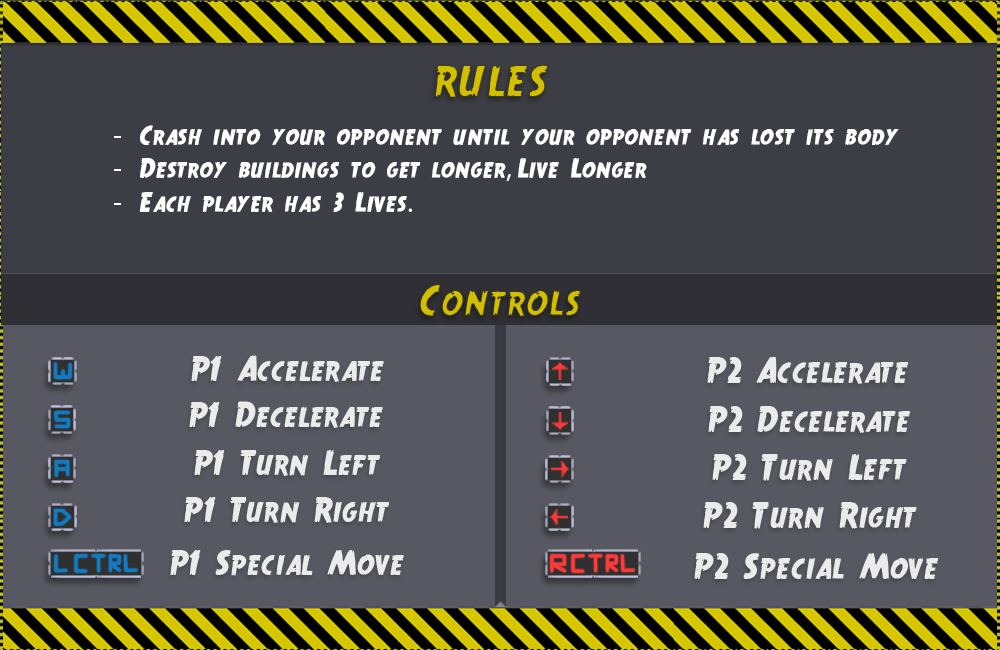
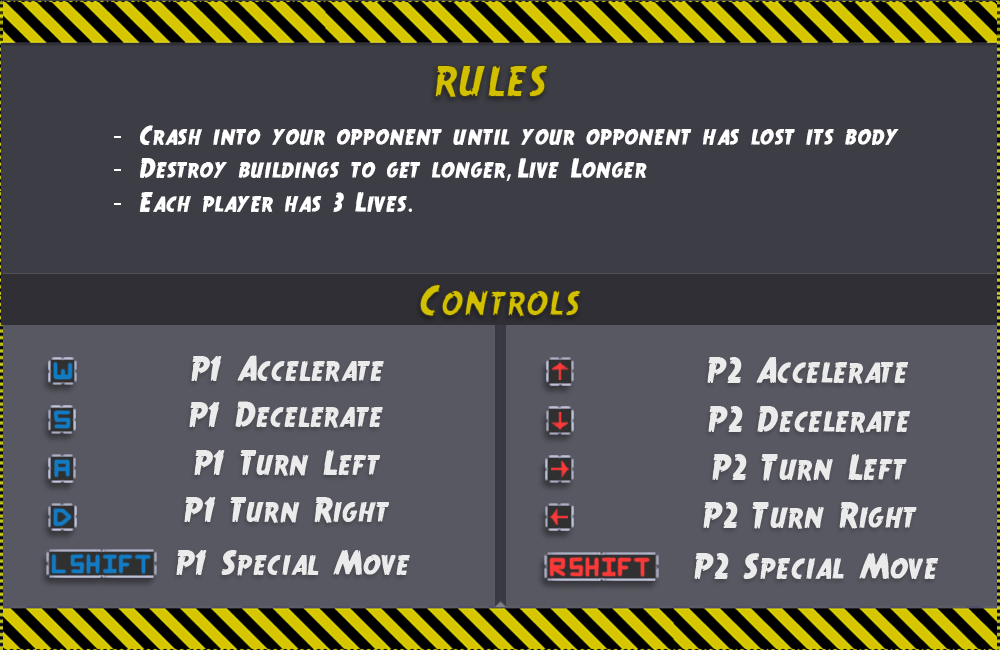
Updated Help Menu to Shift. Updated the hit particle effect color to red. Fixed a bug where the star mode color remained after death.

Changed region(s): [[0.031, 0.8308, 0.403, 0.8923], [0.527, 0.8308, 0.682, 0.9231]]

diff --git a/Sneks/src/Systems/SnekSystem.cpp b/Sneks/src/Systems/SnekSystem.cpp
@@ -780,7 +780,9 @@ void SnekSystem::ResetSnek(SnekHeadEntity* owner)
 	velocity.x = 0;
 	velocity.y = 0;
 
-	owner->GetComponent<PowerUpComponent>()->ResetPowerIncrease();
+	auto powerUpComp = owner->GetComponent<PowerUpComponent>();
+	powerUpComp->ResetPowerIncrease();
+	powerUpComp->m_f_PowerUpDurationLeft = 0;
 
 	transformComp->SetPositionY(0);
 
@@ -821,6 +823,12 @@ void SnekSystem::ResetSnek(SnekHeadEntity* owner)
 			FaceReference(followComponent->m_po_FolloweeTransform, bodyDraw->m_po_TransformComponent);
 			MoveTowardsReference(followDrawComponent, bodyDraw, headPhysicsComponent);
 		}
+	}
+	snekHeadComp->GetComponent<DrawComponent>()->m_f_RgbaColor = { 1.0f,1.0f,1.0f,1.0f };
+	for (auto& i_BodyParts : snekHeadComp->m_x_BodyParts)
+	{
+		auto bodyDraw = i_BodyParts->GetComponent<DrawComponent>();
+		bodyDraw->m_f_RgbaColor = { 1.0f,1.0f,1.0f,1.0f };
 	}
 }
 

diff --git a/Sneks/src/Systems/AudioSystem.cpp b/Sneks/src/Systems/AudioSystem.cpp
@@ -247,7 +247,7 @@ void AudioSystem::Receive(const Events::EV_POWERUP_PICKUP_SPEED & eventData)
 void AudioSystem::Receive(const Events::EV_POWERUP_PICKUP_STARMODE & eventData)
 {
 	UNREFERENCED_PARAMETER(eventData);
-	m_o_StarModeMusic.Play(0.2f);
+	m_o_StarModeMusic.Play(0.15f);
 	m_o_BattleLoopMusic.Pause(true);
 }
 
